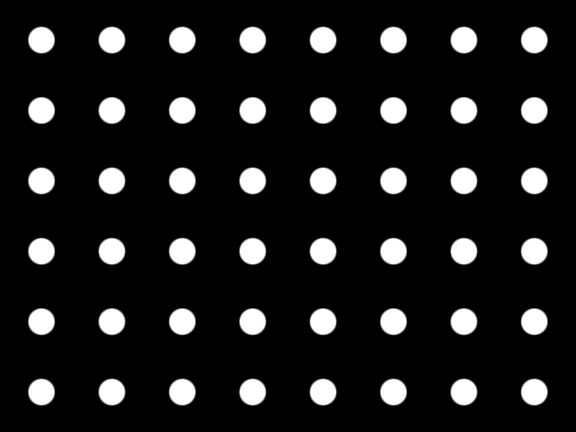
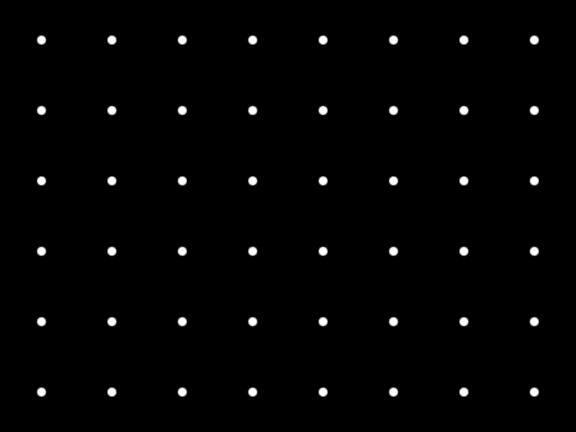
new previews for better match

diff --git a/docs/src/home-shaders.ts b/docs/src/home-shaders.ts
@@ -88,7 +88,7 @@ export const homeShaders = [
     url: '/grain-gradient',
     ShaderComponent: GrainGradient,
     image: grainGradientImg,
-    shaderConfig: { ...grainGradientPresets[0].params, frame: 6000 },
+    shaderConfig: { ...grainGradientPresets[0].params, frame: 6000, speed: 2 },
   },
   {
     name: 'mesh gradient',
@@ -102,7 +102,7 @@ export const homeShaders = [
     url: '/static-mesh-gradient',
     ShaderComponent: StaticMeshGradient,
     image: staticMeshGradientImg,
-    shaderConfig: { ...staticMeshGradientPresets[0].params, rotation: 270, scale: 1.4 },
+    shaderConfig: { ...staticMeshGradientPresets[0].params, rotation: 270 },
   },
   {
     name: 'static radial gradient',
@@ -116,7 +116,7 @@ export const homeShaders = [
     url: '/dithering',
     ShaderComponent: Dithering,
     image: ditheringImg,
-    shaderConfig: { ...ditheringPresets[0].params, scale: 0.8 },
+    shaderConfig: { ...ditheringPresets[0].params, scale: 0.62 },
   },
   {
     name: 'dot orbit',
@@ -130,28 +130,28 @@ export const homeShaders = [
     url: '/dot-grid',
     ShaderComponent: DotGrid,
     image: dotGridImg,
-    shaderConfig: { ...dotGridPresets[0].params, scale: 1.1, size: 6 },
+    shaderConfig: { ...dotGridPresets[0].params, scale: 1.1, size: 2 },
   },
   {
     name: 'warp',
     url: '/warp',
     ShaderComponent: Warp,
     image: warpImg,
-    shaderConfig: { ...warpPresets[0].params, scale: 0.5 },
+    shaderConfig: { ...warpPresets[0].params, scale: 0.5, speed: 2 },
   },
   {
     name: 'spiral',
     url: '/spiral',
     ShaderComponent: Spiral,
     image: spiralImg,
-    shaderConfig: { ...spiralPresets[0].params, scale: 0.65 },
+    shaderConfig: { ...spiralPresets[0].params, scale: 0.5, speed: 2 },
   },
   {
     name: 'swirl',
     url: '/swirl',
     ShaderComponent: Swirl,
     image: swirlImg,
-    shaderConfig: { ...swirlPresets[0].params },
+    shaderConfig: { ...swirlPresets[0].params, speed: 0.7 },
   },
   {
     name: 'waves',
@@ -172,7 +172,7 @@ export const homeShaders = [
     url: '/perlin-noise',
     ShaderComponent: PerlinNoise,
     image: perlinNoiseImg,
-    shaderConfig: { ...perlinNoisePresets[0].params, scale: 1.3 },
+    shaderConfig: { ...perlinNoisePresets[0].params, scale: 1.3, speed: 0.2 },
   },
   {
     name: 'simplex noise',
@@ -207,14 +207,14 @@ export const homeShaders = [
     url: '/color-panels',
     ShaderComponent: ColorPanels,
     image: colorPanelsImg,
-    shaderConfig: { ...colorPanelsPresets[0].params },
+    shaderConfig: { ...colorPanelsPresets[0].params, speed: 2 },
   },
   {
     name: 'smoke ring',
     image: smokeRingImg,
     url: '/smoke-ring',
     ShaderComponent: SmokeRing,
-    shaderConfig: { ...smokeRingPresets[0].params, scale: 0.8 },
+    shaderConfig: { ...smokeRingPresets[0].params, scale: 0.8, speed: 2 },
   },
   {
     name: 'liquid metal',
@@ -228,6 +228,6 @@ export const homeShaders = [
     url: '/god-rays',
     ShaderComponent: GodRays,
     image: godRaysImg,
-    shaderConfig: { ...godRaysPresets[0].params },
+    shaderConfig: { ...godRaysPresets[0].params, speed: 2 },
   },
 ] satisfies HomeShaderConfig[];

diff --git a/packages/shaders-react/src/shaders/mesh-gradient.tsx b/packages/shaders-react/src/shaders/mesh-gradient.tsx
@@ -21,7 +21,7 @@ export const defaultPreset: MeshGradientPreset = {
     ...defaultObjectSizing,
     speed: 1,
     frame: 0,
-    colors: ['#9ebbff', '#241d9a', '#f75092', '#9f50d3'],
+    colors: ['#e0eaff', '#241d9a', '#f75092', '#9f50d3'],
     distortion: 0.8,
     swirl: 0.1,
   },
